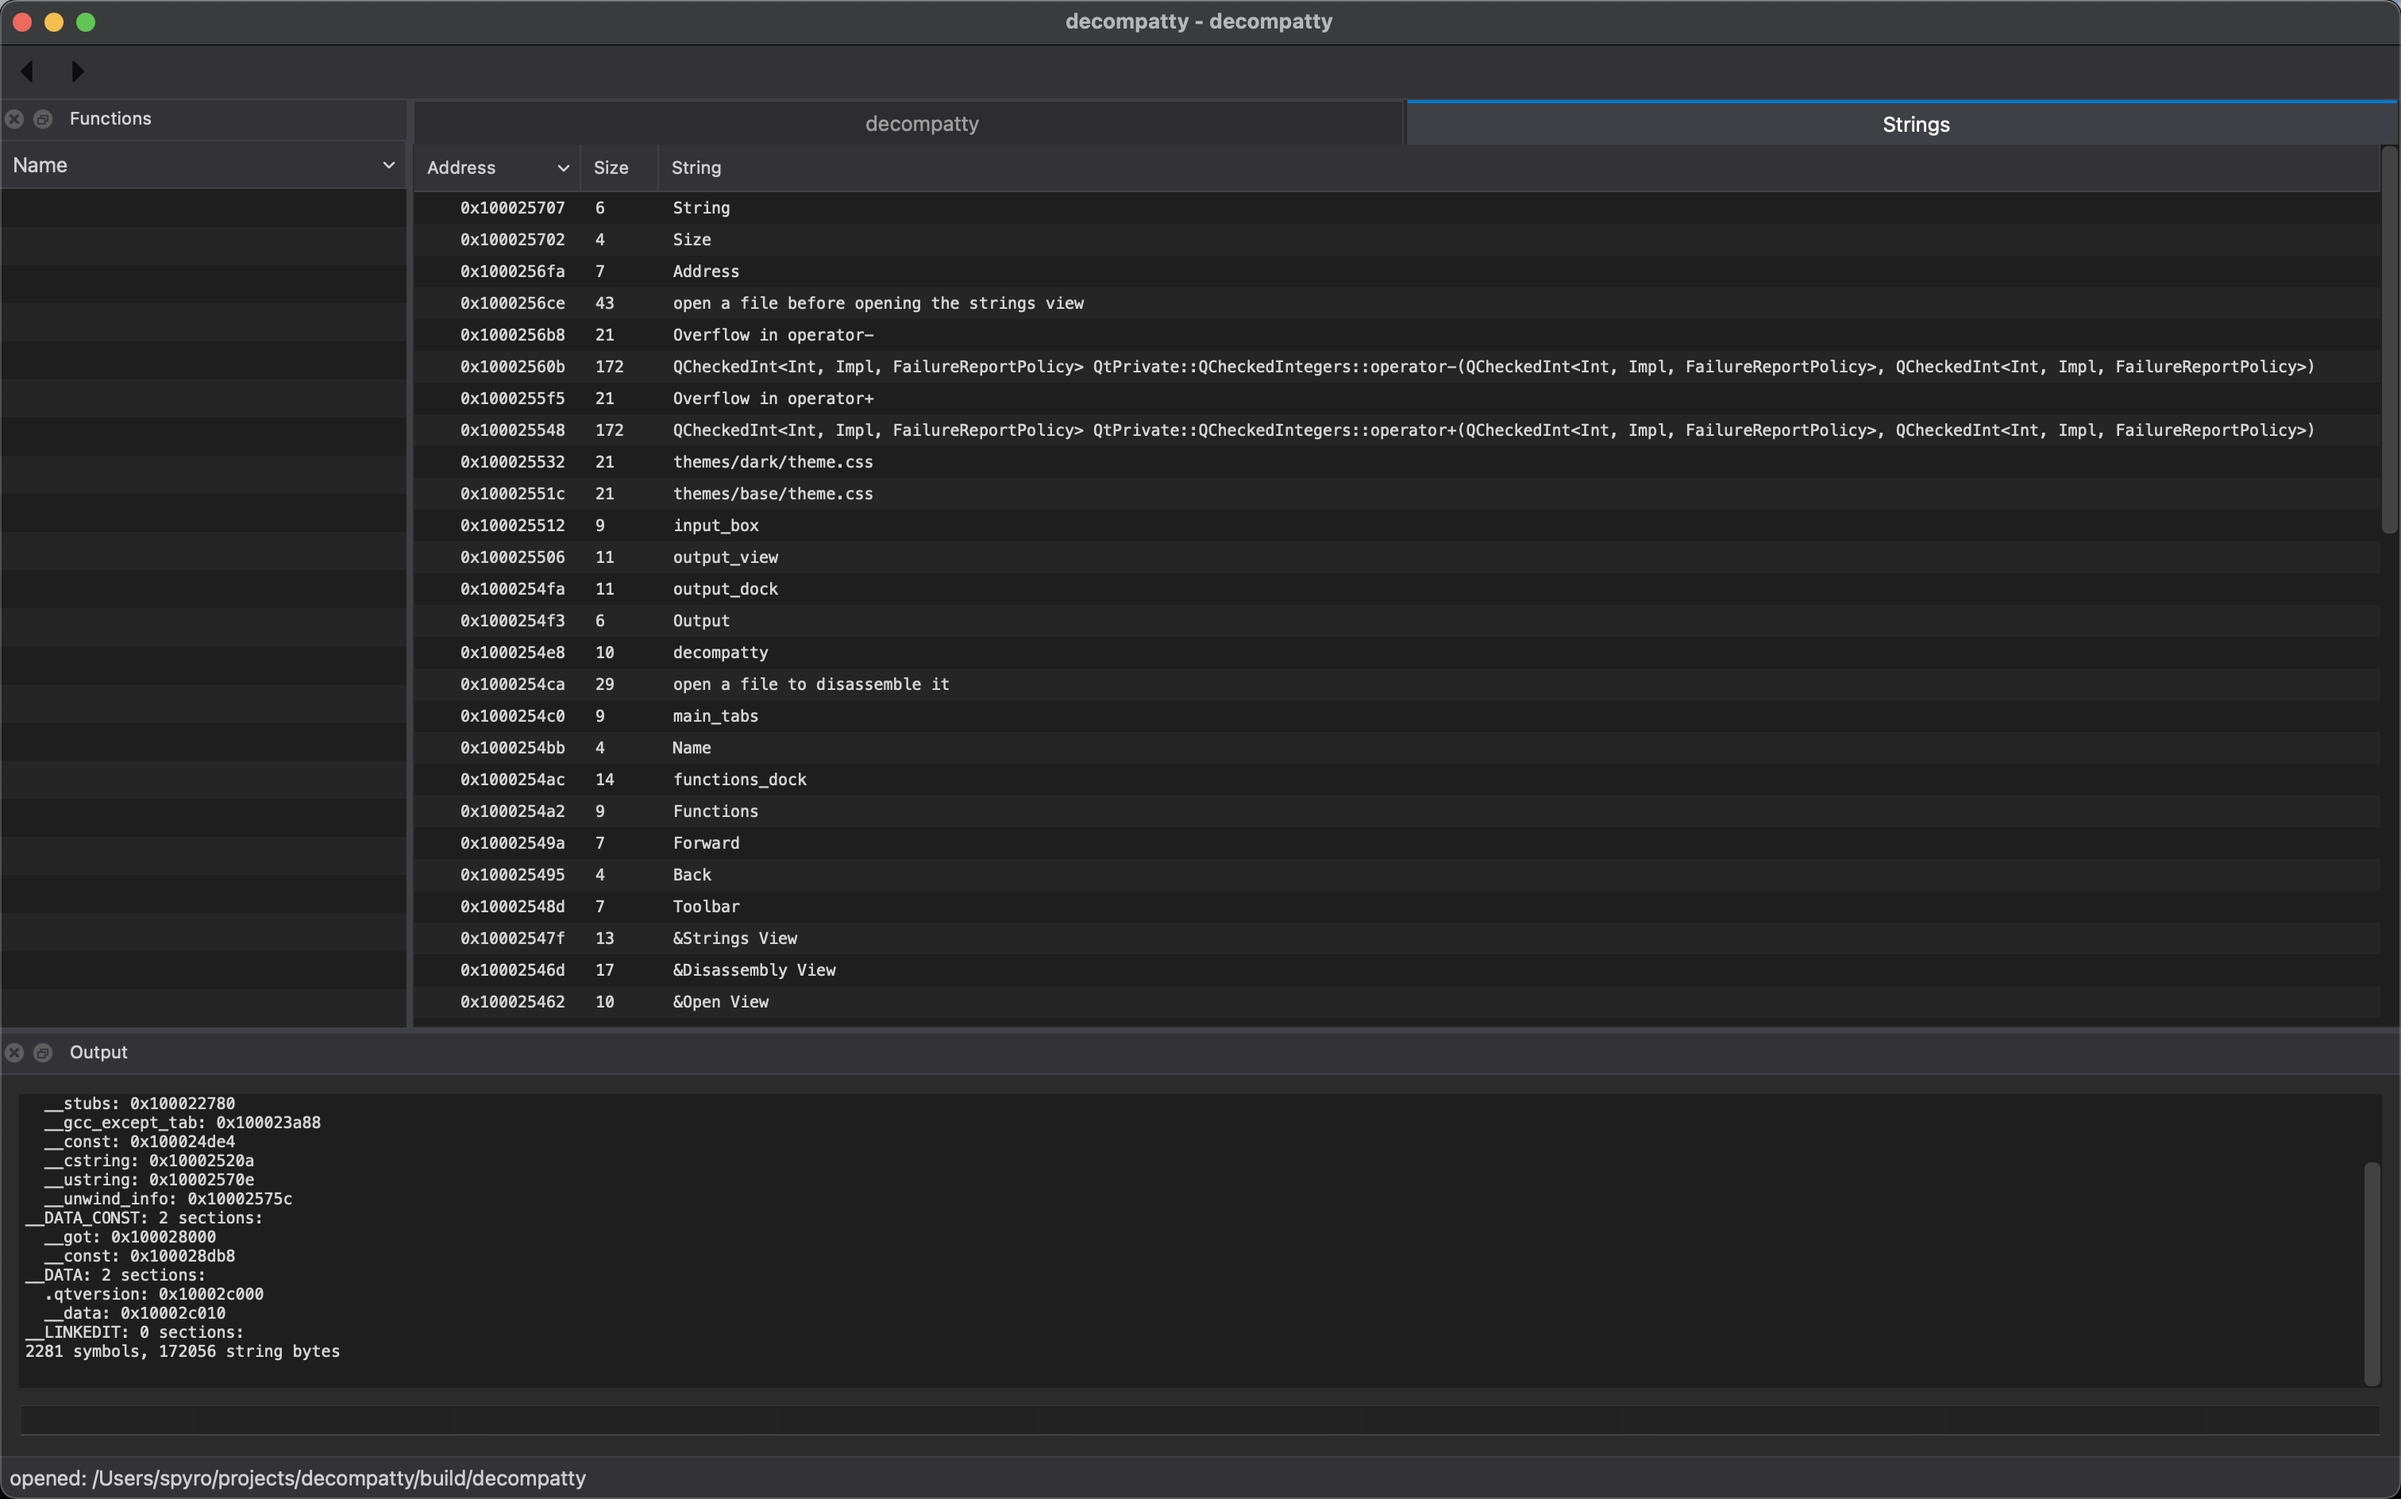
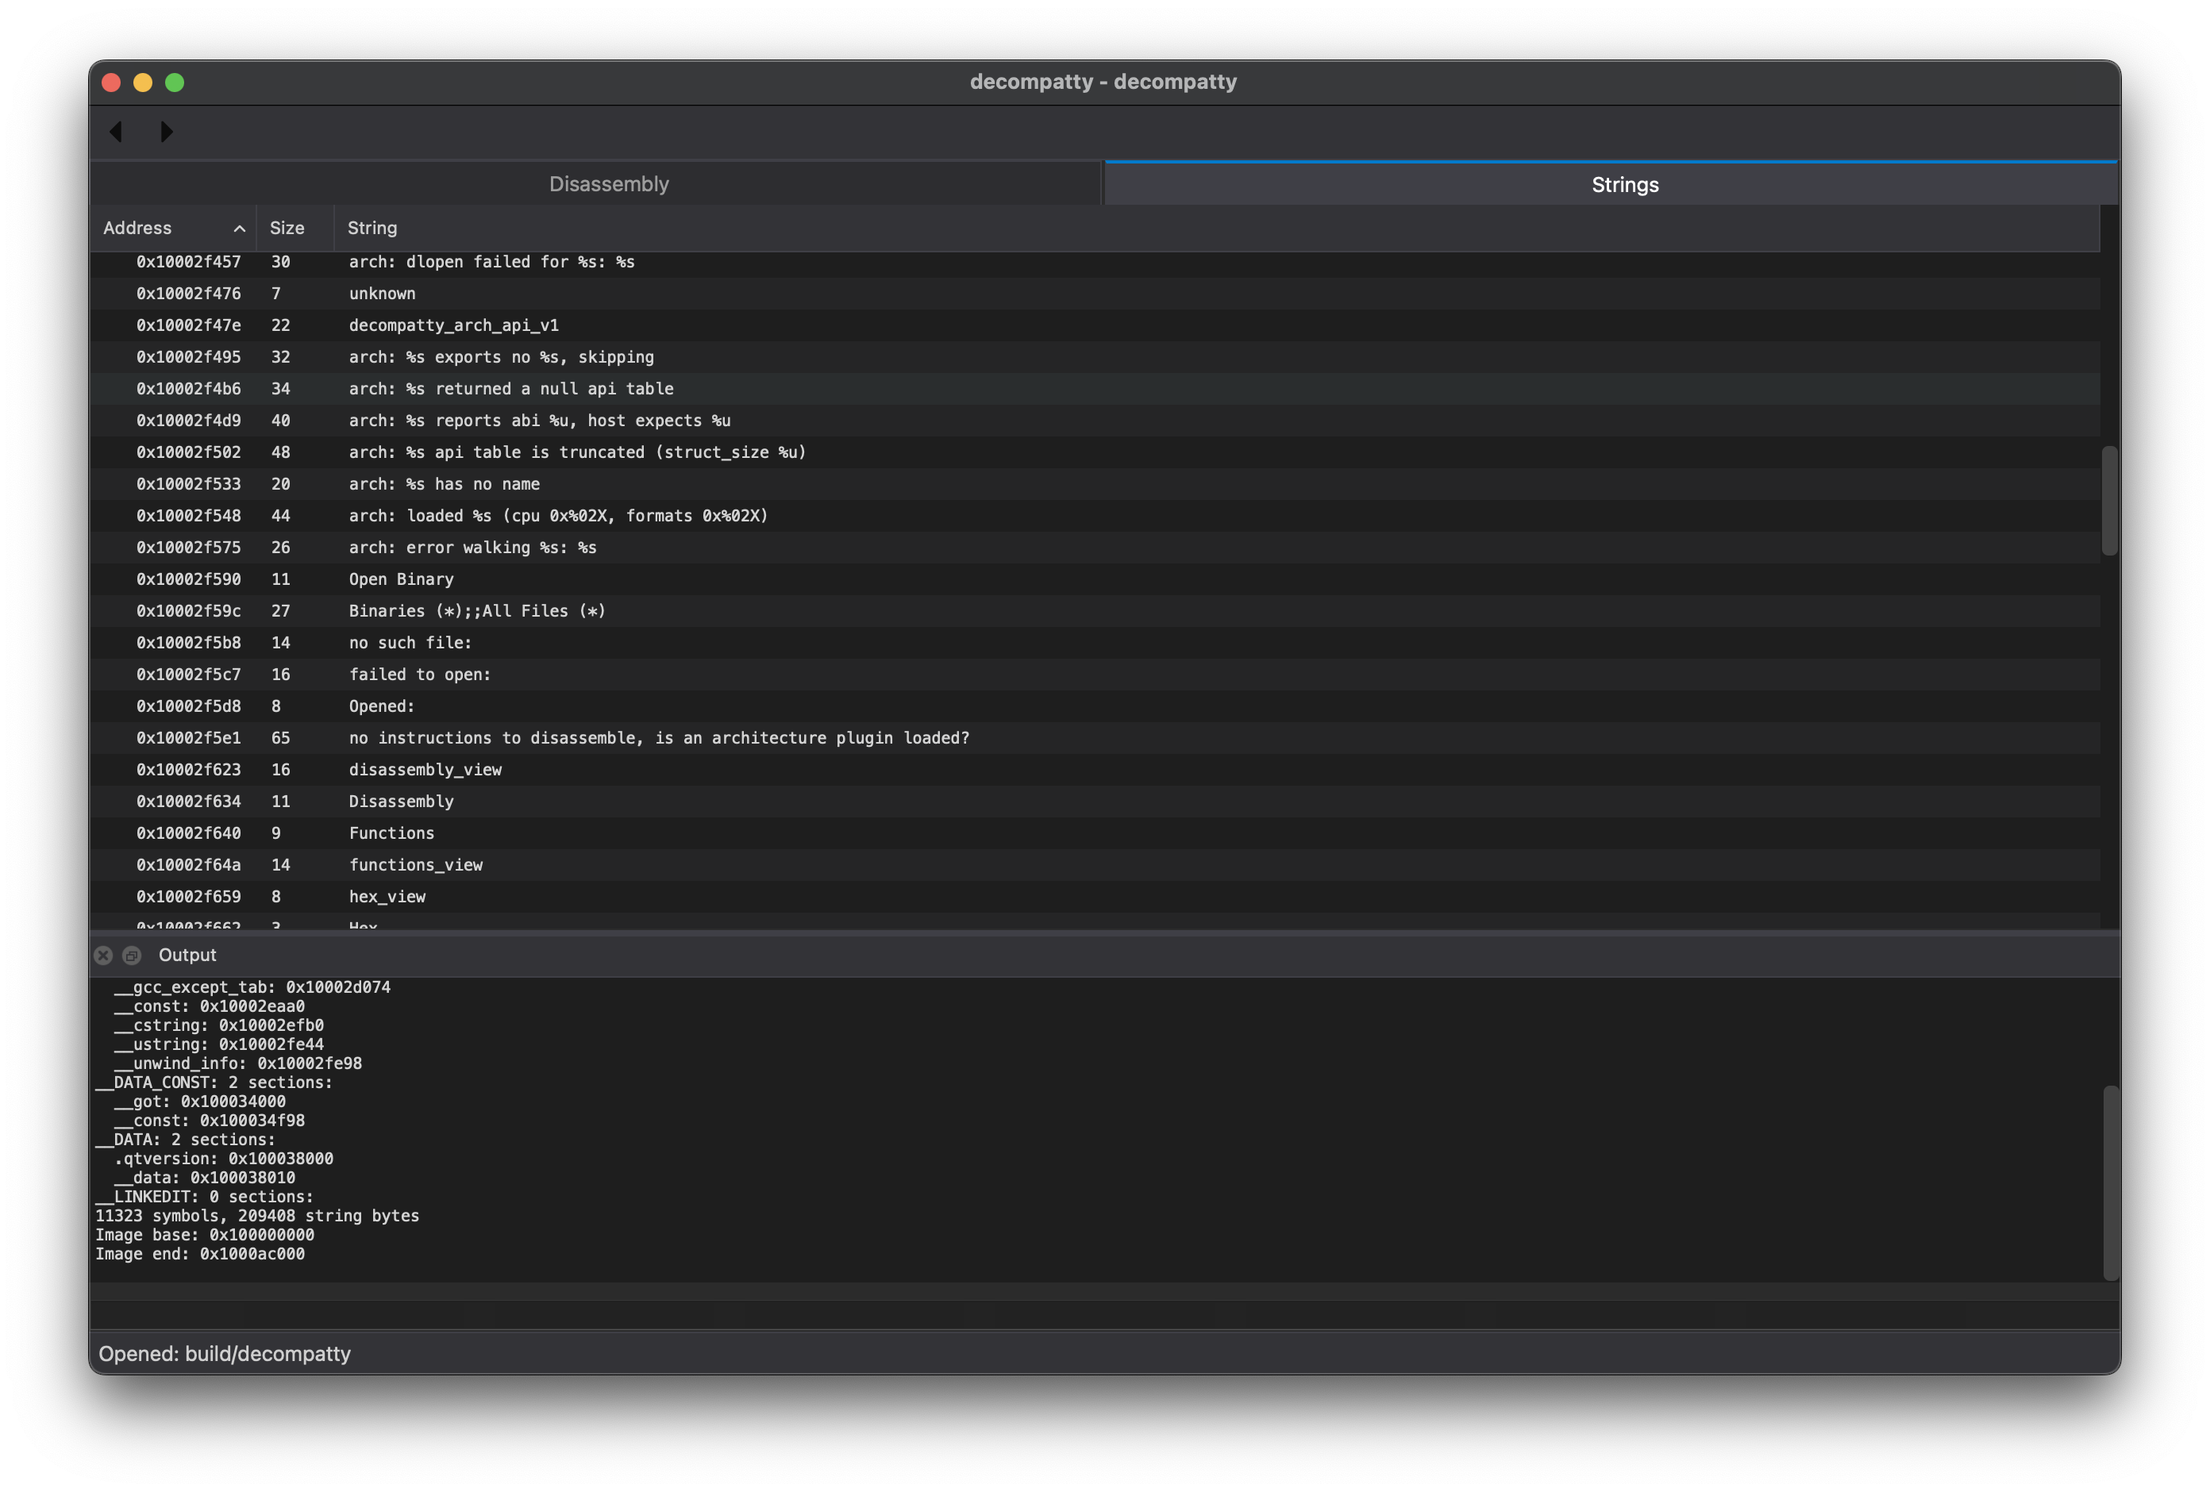
add screenshots

diff --git a/README.md b/README.md
@@ -34,5 +34,8 @@ Open views from **View > Open View**
 
 ## Screenshots
 
+### Disassembly view
+![Disassembly View](docs/screenshots/disassembly.png)
+
 ### Strings view
 ![Strings view](docs/screenshots/strings.png)
